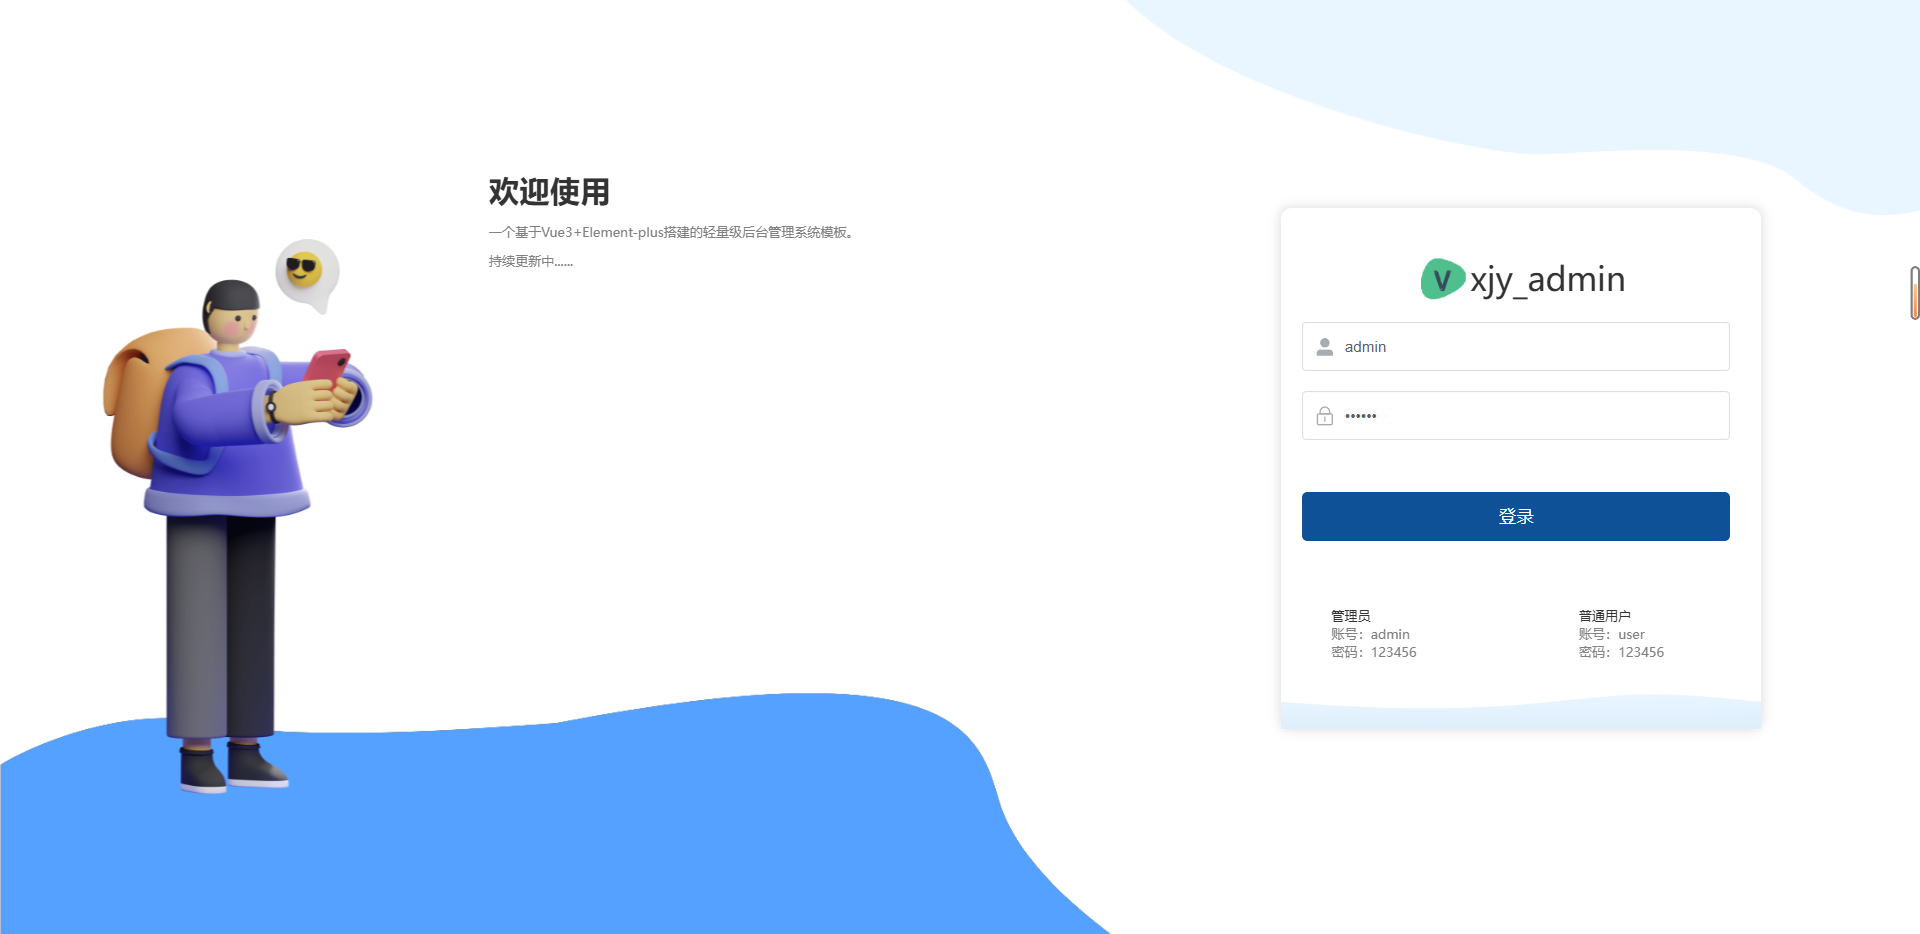
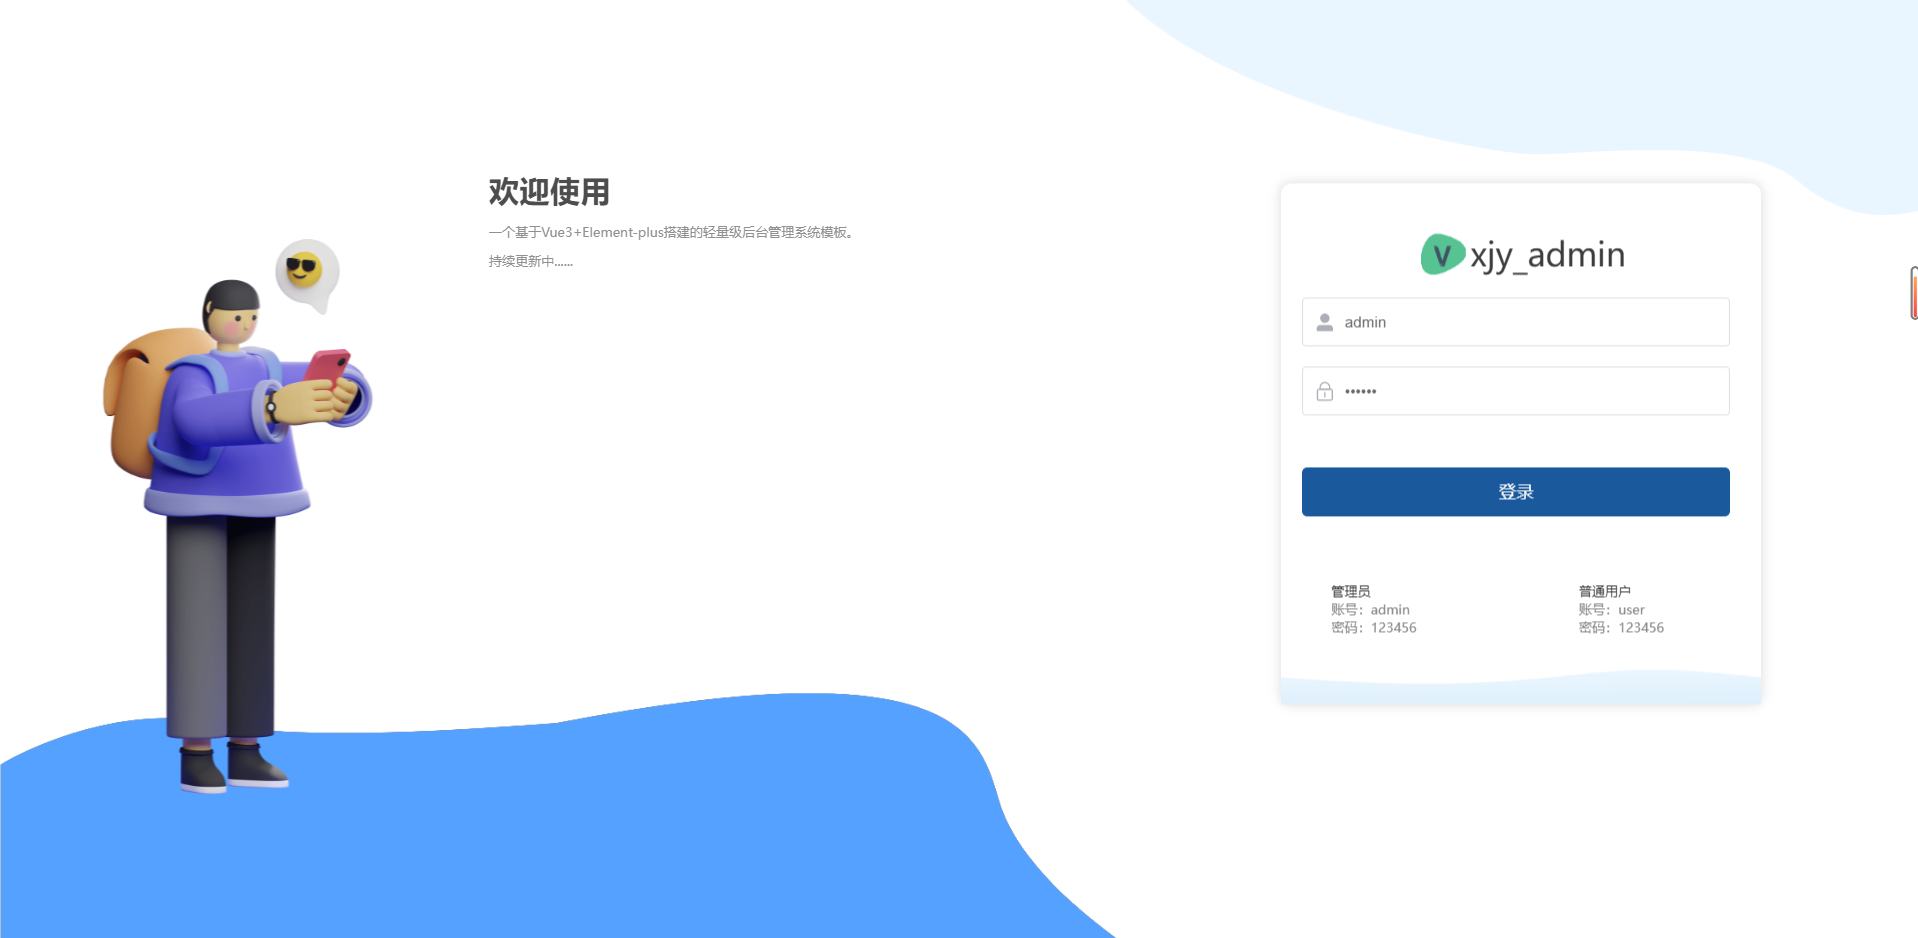
init xjy_admin

diff --git a/README.md b/README.md
@@ -1,5 +1,5 @@
+  <img aligin="center" src="/src/assets/logo.jpg" style="width:50px;height:50px;" />
  <h1 align="center" style="margin: 30px 0 30px;display: flex;align-items: center;font-weight: bold;">
- <img src="/src/assets/logo.jpg" style="width:50px;height:50px" />
  xjy_admin
  </h1>
 
@@ -22,7 +22,7 @@
 
 
 ## 预览
-
+![alt text](/src/assets/doc/image-2.png)
 xjy_admin提供了以下演示和文档资源:
 
 - 账户信息：(管理员)账号：admin，密码：123456
@@ -32,9 +32,9 @@ xjy_admin提供了以下演示和文档资源:
 -
 
 ## 效果展示
-![alt text](/src/doc/image.png)
+![alt text](/src/assets/doc/image.png)
 
-![alt text](/src/doc/image-1.png)
+![alt text](/src/assets/doc/image-1.png)
 
 
 
